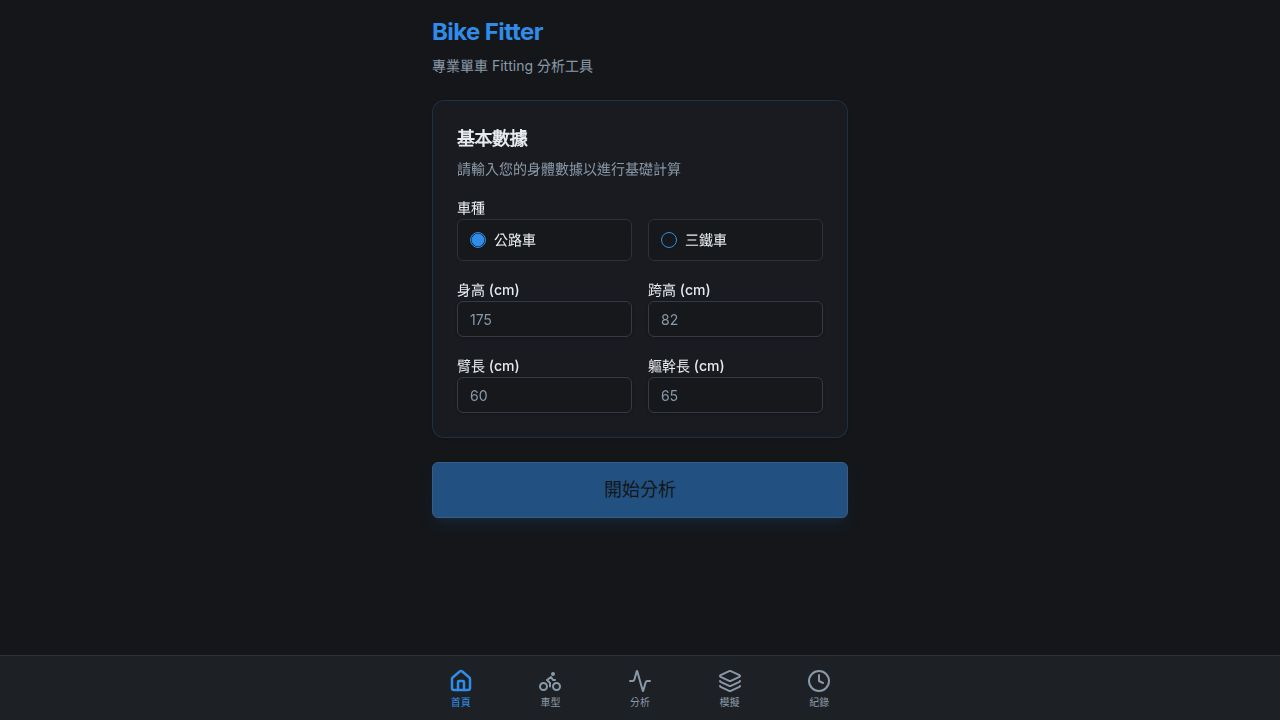
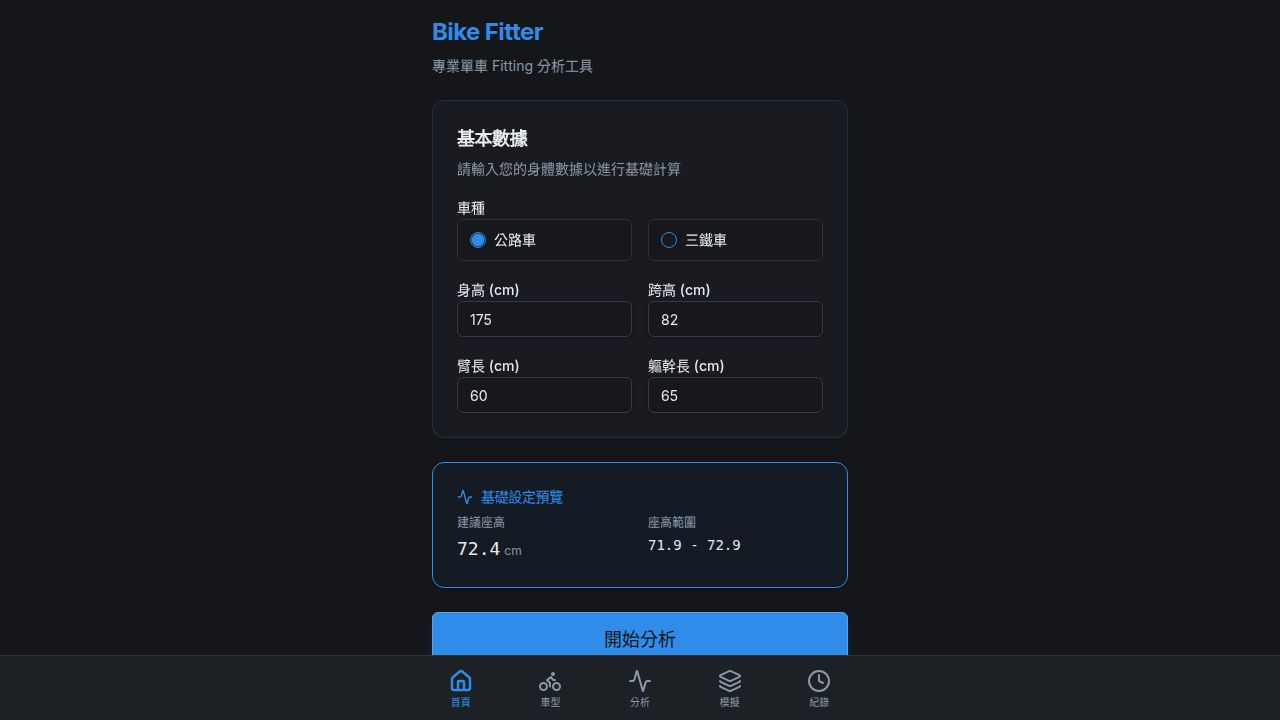
fix: replace rider joint calculation with anchor-based inline formulas
visualizer.ts:
- Remove 11 unused body-segment constants (LEG_SCALE, THIGH_RATIO, etc.)
- Remove findJoint() two-circle-intersection helper (no longer needed)
- Simplify RiderPositionsSVG: drop pedal6/footTip6/pedal12 fields
- Rewrite rider joints inline:
  - hip = saddle + (0, -30mm)
  - ankle6/12 = BB ± crankLength (straight below/above)
  - knee: law of cosines on thigh(53%)/shin(54% inseam); primary forward, secondary backward
  - shoulder = hip + torsoLength in direction(hip→handlebar)
  - elbow = midpoint(shoulder, handlebar) + 30mm downward
  - wrist = handlebar
  - headCenter = shoulder + (0, -120mm)

BikeVisualizer.tsx:
- Restore dark-theme colors: #E8E8E8 / #555555 / #FFFFFF
- Restore stroke widths: 3px main, 2px secondary/head
- Restore HEAD_R=14, JOINT_R=4
- Remove FOOT_COLOR constant
- Update StickmanSVG: simplified joint set, no foot/pedal lines

Verified by Playwright: #E8E8E8, #555555, #FFFFFF present; #FF3333 absent.

diff --git a/artifacts/bike-fitter/src/lib/visualizer.ts b/artifacts/bike-fitter/src/lib/visualizer.ts
@@ -31,19 +31,7 @@ const ABOVE_AXLE_MM   = 1400; // headroom above axle — must fit rider head/sho
 const RIGHT_MM        = 536; // clearance right of front axle (wheel + bar overhang)
 const BELOW_GROUND_MM = 150; // margin below ground line
 
-// ── Body segment constants (from bike-fit-vis reference) ──────────────────────
-const LEG_SCALE             = 1.09;   // anatomical leg (hip→ankle) = 109% inseam
-const THIGH_RATIO           = 0.53;   // thigh is 53% of total leg
-const SHIN_RATIO            = 0.47;   // shin is 47% of total leg
-const FOOT_TO_HEIGHT_RATIO  = 0.152;  // footLength = 15.2% of height
-const FOOT_CONTACT_PROP     = 0.65;   // ankle is 65% from ball toward heel
-const FOOT_ANGLE_6_DEG      = 15;     // foot angle at 6-o'clock (toe slightly down)
-const FOOT_ANGLE_12_DEG     =  5;     // foot angle at 12-o'clock (nearly flat)
-const HIP_FORWARD_MM        = 25;     // hip joint is ~25 mm forward of saddle
-const UPPER_ARM_RATIO       = 0.558;  // upperArm = 55.8% of arm length
-const FORE_ARM_RATIO        = 0.442;  // foreArm  = 44.2% of arm length
-const ARM_REACH_RATIO       = 0.87;   // effective shoulder→wrist reach
-const RAD                   = Math.PI / 180;
+const RAD = Math.PI / 180;
 
 // ── Default geometry (Mamba FCM-2159 S size) ──────────────────────────────────
 export const DEFAULT_GEOMETRY: BikeProfile["geometry"] = {
@@ -68,18 +56,15 @@ export interface BikePositionsSVG {
 }
 
 export interface RiderPositionsSVG {
-  pedal6:     Vec2;
-  ankle6:     Vec2;
-  footTip6:   Vec2;
-  knee6:      Vec2;
   hip:        Vec2;
+  knee6:      Vec2;
+  ankle6:     Vec2;
+  knee12:     Vec2;
+  ankle12:    Vec2;
   shoulder:   Vec2;
   elbow:      Vec2;
-  wrist:      Vec2;
+  wrist:      Vec2;   // = handlebar position
   headCenter: Vec2;
-  pedal12:    Vec2;
-  ankle12:    Vec2;
-  knee12:     Vec2;
 }
 
 export interface VisualizerDrawData {
@@ -112,25 +97,6 @@ function angleDeg(va: Vec2, vb: Vec2): number {
   return (Math.acos(Math.max(-1, Math.min(1, dot(nrm(va), nrm(vb))))) * 180) / Math.PI;
 }
 
-/**
- * Two-circle intersection: find a point that is dA from `a` and dB from `b`.
- * Returns the solution on the `preferDir` side of the a→b line.
- * Gracefully clamps when the circles don't intersect (over-extended limb).
- */
-function findJoint(a: Vec2, b: Vec2, dA: number, dB: number, preferDir: Vec2): Vec2 {
-  const d  = len(sub(b, a));
-  const lo = Math.abs(dA - dB) + 0.01;
-  const hi = dA + dB - 0.01;
-  const cd = Math.max(lo, Math.min(hi, d > 0 ? d : lo));
-  const pa = (dA * dA - dB * dB + cd * cd) / (2 * cd);
-  const h  = Math.sqrt(Math.max(0, dA * dA - pa * pa));
-  const dir  = nrm(sub(b, a));
-  const mid: Vec2 = { x: a.x + pa * dir.x, y: a.y + pa * dir.y };
-  const perp: Vec2 = { x: -dir.y, y: dir.x };
-  const p1: Vec2 = { x: mid.x + h * perp.x, y: mid.y + h * perp.y };
-  const p2: Vec2 = { x: mid.x - h * perp.x, y: mid.y - h * perp.y };
-  return dot(perp, preferDir) >= 0 ? p1 : p2;
-}
 
 /**
  * Convert bike-space (mm, y-down, rear axle = 0,0) to SVG canvas coordinates.
@@ -210,70 +176,59 @@ export function calculateVisualizerData(
   const stemStart = v(headTubeTop.x, bb.y - params.stemHeight);
   const handlebar = v(stemStart.x + params.stemLength, stemStart.y);
 
-  // ── Body segment lengths (mm) ─────────────────────────────────────────────
-  const thighMm      = measurements.inseam      * 10 * LEG_SCALE * THIGH_RATIO;
-  const shinMm       = measurements.inseam      * 10 * LEG_SCALE * SHIN_RATIO;
-  const torsoMm      = measurements.torsoLength * 10;
-  const armMm        = measurements.armLength   * 10;
-  const neckMm       = measurements.height      * 10 * 0.13;
-  const footLengthMm = measurements.height      * 10 * FOOT_TO_HEIGHT_RATIO;
-  const footLever    = FOOT_CONTACT_PROP * footLengthMm;
-  const footFwd      = footLengthMm * (1 - FOOT_CONTACT_PROP);
+  // ── Rider joint positions (anchor-based inline formulas) ─────────────────
+  // All coordinates are in raw mm (same y-down system as bike-space).
+  // toSVG() is applied at the return statement.
 
-  const upperArmMm = armMm * UPPER_ARM_RATIO;
-  const foreArmMm  = armMm * FORE_ARM_RATIO;
-  const armReach   = armMm * ARM_REACH_RATIO;
+  // Hip: directly above saddle by 30 mm
+  const hip = v(saddle.x, saddle.y - 30);
 
-  // ── Hip ──────────────────────────────────────────────────────────────────
-  // Hip joint: forward of and above saddle surface.
-  // y-down: "above" = smaller y.
-  const hip = v(saddle.x + HIP_FORWARD_MM, saddle.y - 20);
+  // Leg segments (spec ratios: thigh = 53%, shin = 54% of inseam in mm)
+  const thighMm = measurements.inseam * 10 * 0.53;
+  const shinMm  = measurements.inseam * 10 * 0.54;
 
-  // ── Primary leg: 6-o'clock (pedal at bottom) ─────────────────────────────
-  // Pedal directly below BB (y-down: below = larger y)
-  const pedal6 = v(bb.x, bb.y + params.crankLength);
-
-  // Foot model (bike-fit-vis):
-  //   At 6-o'clock, foot is toe-slightly-down (15° below horizontal).
-  //   Heel is UP and BEHIND the ball of foot.
-  //   In y-down: ankle is at SMALLER y (higher) than pedal, and behind (-x).
-  const foot6Rad = FOOT_ANGLE_6_DEG * RAD;
-  const ankle6 = v(
-    pedal6.x - footLever * Math.cos(foot6Rad),
-    pedal6.y - footLever * Math.sin(foot6Rad)  // y-down: heel is UP = smaller y
-  );
-  // Toe tip: forward and slightly DOWN from pedal (toe-down at 15°)
-  const footTip6 = v(
-    pedal6.x + footFwd * Math.cos(foot6Rad),
-    pedal6.y + footFwd * Math.sin(foot6Rad)    // y-down: toe is DOWN = larger y
+  // Primary leg — crank at 6-o'clock: ankle directly below BB
+  const ankle6 = v(bb.x, bb.y + params.crankLength);
+  const legDx6   = ankle6.x - hip.x;
+  const legDy6   = ankle6.y - hip.y;
+  const legDist6 = Math.sqrt(legDx6 * legDx6 + legDy6 * legDy6);
+  const safe6    = Math.min(legDist6, thighMm + shinMm - 0.1);
+  const cosA6    = (thighMm * thighMm + safe6 * safe6 - shinMm * shinMm) / (2 * thighMm * safe6);
+  const angleA   = Math.acos(Math.max(-1, Math.min(1, cosA6)));
+  const base6    = Math.atan2(legDy6, legDx6);
+  // Subtract angle → knee goes forward (clockwise on-screen = toward front wheel)
+  const knee6 = v(
+    hip.x + thighMm * Math.cos(base6 - angleA),
+    hip.y + thighMm * Math.sin(base6 - angleA),
   );
 
-  // Knee: findJoint from hip and ankle; prefer forward (+x) to place knee in front
-  const knee6 = findJoint(hip, ankle6, thighMm, shinMm, v(1, 0));
-
-  // ── Secondary leg: 12-o'clock (pedal at top, dim) ────────────────────────
-  const pedal12 = v(bb.x, bb.y - params.crankLength);
-  const foot12Rad = FOOT_ANGLE_12_DEG * RAD;
-  const ankle12 = v(
-    pedal12.x - footLever * Math.cos(foot12Rad),
-    pedal12.y - footLever * Math.sin(foot12Rad)
+  // Secondary leg — crank at 12-o'clock: ankle directly above BB
+  const ankle12 = v(bb.x, bb.y - params.crankLength);
+  // Add angle → knee goes backward (opposite side of hip-ankle baseline)
+  const knee12 = v(
+    hip.x + thighMm * Math.cos(base6 + angleA),
+    hip.y + thighMm * Math.sin(base6 + angleA),
   );
-  const knee12 = findJoint(hip, ankle12, thighMm, shinMm, v(1, 0));
 
-  // ── Upper body ────────────────────────────────────────────────────────────
-  // Shoulder: two-circle intersection with hip (torso length) and handlebar (arm reach).
-  //   Prefer UPWARD: in y-down, up = v(0, -1) (smaller y = higher)
-  const shoulder = findJoint(hip, handlebar, torsoMm, armReach, v(0, -1));
+  // Shoulder: hip + torsoLength in direction of hip → handlebar
+  const torsoMm  = measurements.torsoLength * 10;
+  const hbDx     = handlebar.x - hip.x;
+  const hbDy     = handlebar.y - hip.y;
+  const torsoDir = Math.atan2(hbDy, hbDx);
+  const shoulder = v(
+    hip.x + torsoMm * Math.cos(torsoDir),
+    hip.y + torsoMm * Math.sin(torsoDir),
+  );
 
-  // Elbow: prefer DOWNWARD (arm droops below shoulder→handlebar line)
-  //   In y-down, down = v(0, +1)
-  const elbow = findJoint(shoulder, handlebar, upperArmMm, foreArmMm, v(0, 1));
-
+  // Wrist reaches to handlebar; elbow is mid-point drooped 30 mm downward
   const wrist = handlebar;
+  const elbow = v(
+    (shoulder.x + wrist.x) / 2,
+    (shoulder.y + wrist.y) / 2 + 30,
+  );
 
-  // Head: above shoulder, slight forward lean
-  //   y-down: above = smaller y → neckMm subtracted from y
-  const headCenter = v(shoulder.x + neckMm * 0.2, shoulder.y - neckMm);
+  // Head: directly above shoulder by 120 mm (neck length)
+  const headCenter = v(shoulder.x, shoulder.y - 120);
 
   // ── Angle calculations (matching analyze.ts conventions) ──────────────────
   // Knee bend = 180° − interior angle. Target 25-35° at 6-o'clock.
@@ -309,18 +264,15 @@ export function calculateVisualizerData(
       handlebar:      toSVG(handlebar),
     },
     rider: {
-      pedal6:     toSVG(pedal6),
-      ankle6:     toSVG(ankle6),
-      footTip6:   toSVG(footTip6),
-      knee6:      toSVG(knee6),
       hip:        toSVG(hip),
+      knee6:      toSVG(knee6),
+      ankle6:     toSVG(ankle6),
+      knee12:     toSVG(knee12),
+      ankle12:    toSVG(ankle12),
       shoulder:   toSVG(shoulder),
       elbow:      toSVG(elbow),
       wrist:      toSVG(wrist),
       headCenter: toSVG(headCenter),
-      pedal12:    toSVG(pedal12),
-      ankle12:    toSVG(ankle12),
-      knee12:     toSVG(knee12),
     },
     kneeAngle6,
     torsoAngle,

diff --git a/artifacts/bike-fitter/src/pages/BikeVisualizer.tsx b/artifacts/bike-fitter/src/pages/BikeVisualizer.tsx
@@ -16,12 +16,11 @@ import { Button } from "@/components/ui/button";
 
 // ── Colour constants ─────────────────────────────────────────────────────────
 const FRAME_COLOR = "#4A9EFF";
-const RIDER_COLOR = "#FF3333";   // bright red — main limbs
-const RIDER_DIM   = "#882222";   // dark red — secondary (12 o'clock) leg
-const JOINT_COLOR = "#FF6666";   // lighter red — joint dots
-const FOOT_COLOR  = "#FF4444";   // red — foot
-const HEAD_R      = 18;   // px (non-scaling)
-const JOINT_R     = 6;    // px (non-scaling) — slightly larger for visibility
+const RIDER_COLOR = "#E8E8E8";   // main limbs — light on dark background
+const RIDER_DIM   = "#555555";   // secondary (12 o'clock) leg — dimmed
+const JOINT_COLOR = "#FFFFFF";   // joint dots
+const HEAD_R      = 14;   // px (non-scaling)
+const JOINT_R     = 4;    // px (non-scaling)
 
 // Format SVG coordinate pair
 function p(pt: { x: number; y: number }) {
@@ -124,50 +123,41 @@ function BikeFrameSVG({ bike }: { bike: BikePositionsSVG }) {
 // ── Rider stickman ────────────────────────────────────────────────────────────
 function StickmanSVG({ rider }: { rider: RiderPositionsSVG }) {
   const {
-    pedal6, ankle6, footTip6, knee6,
-    hip, shoulder, elbow, wrist, headCenter,
-    pedal12, ankle12, knee12,
+    hip, knee6, ankle6,
+    knee12, ankle12,
+    shoulder, elbow, wrist, headCenter,
   } = rider;
 
   return (
     <g>
       {/* ── Secondary leg (12 o'clock, dim) ─────────────────────────── */}
       <polyline
-        points={`${p(hip)} ${p(knee12)} ${p(ankle12)} ${p(pedal12)}`}
-        fill="none" stroke={RIDER_DIM} strokeWidth="5"
+        points={`${p(hip)} ${p(knee12)} ${p(ankle12)}`}
+        fill="none" stroke={RIDER_DIM} strokeWidth="2"
         vectorEffect="non-scaling-stroke"
         strokeLinecap="round" strokeLinejoin="round"
       />
       <Dot pt={knee12}  fill={RIDER_DIM} />
       <Dot pt={ankle12} fill={RIDER_DIM} />
-      <Dot pt={pedal12} fill={RIDER_DIM} />
 
       {/* ── Primary leg (6 o'clock) ──────────────────────────────────── */}
-      {/* Foot: toe tip → ankle → pedal */}
-      <polyline
-        points={`${p(footTip6)} ${p(ankle6)} ${p(pedal6)}`}
-        fill="none" stroke={FOOT_COLOR} strokeWidth="5"
-        vectorEffect="non-scaling-stroke"
-        strokeLinecap="round" strokeLinejoin="round"
-      />
-      {/* Thigh + shin */}
       <polyline
         points={`${p(hip)} ${p(knee6)} ${p(ankle6)}`}
-        fill="none" stroke={RIDER_COLOR} strokeWidth="6"
+        fill="none" stroke={RIDER_COLOR} strokeWidth="3"
         vectorEffect="non-scaling-stroke"
         strokeLinecap="round" strokeLinejoin="round"
       />
 
-      {/* ── Torso ────────────────────────────────────────────────────── */}
+      {/* ── Spine (hip → shoulder) ───────────────────────────────────── */}
       <line x1={hip.x} y1={hip.y} x2={shoulder.x} y2={shoulder.y}
-        stroke={RIDER_COLOR} strokeWidth="6"
+        stroke={RIDER_COLOR} strokeWidth="3"
         vectorEffect="non-scaling-stroke" strokeLinecap="round"
       />
 
-      {/* ── Arm ──────────────────────────────────────────────────────── */}
+      {/* ── Arm (shoulder → elbow → wrist) ───────────────────────────── */}
       <polyline
         points={`${p(shoulder)} ${p(elbow)} ${p(wrist)}`}
-        fill="none" stroke={RIDER_COLOR} strokeWidth="5"
+        fill="none" stroke={RIDER_COLOR} strokeWidth="3"
         vectorEffect="non-scaling-stroke"
         strokeLinecap="round" strokeLinejoin="round"
       />
@@ -176,7 +166,7 @@ function StickmanSVG({ rider }: { rider: RiderPositionsSVG }) {
       <circle
         cx={headCenter.x} cy={headCenter.y}
         r={HEAD_R}
-        fill="none" stroke={RIDER_COLOR} strokeWidth="5"
+        fill="none" stroke={RIDER_COLOR} strokeWidth="2"
         vectorEffect="non-scaling-stroke"
       />
 
@@ -184,7 +174,6 @@ function StickmanSVG({ rider }: { rider: RiderPositionsSVG }) {
       <Dot pt={hip}      />
       <Dot pt={knee6}    />
       <Dot pt={ankle6}   />
-      <Dot pt={pedal6}   />
       <Dot pt={shoulder} />
       <Dot pt={elbow}    />
       <Dot pt={wrist}    />